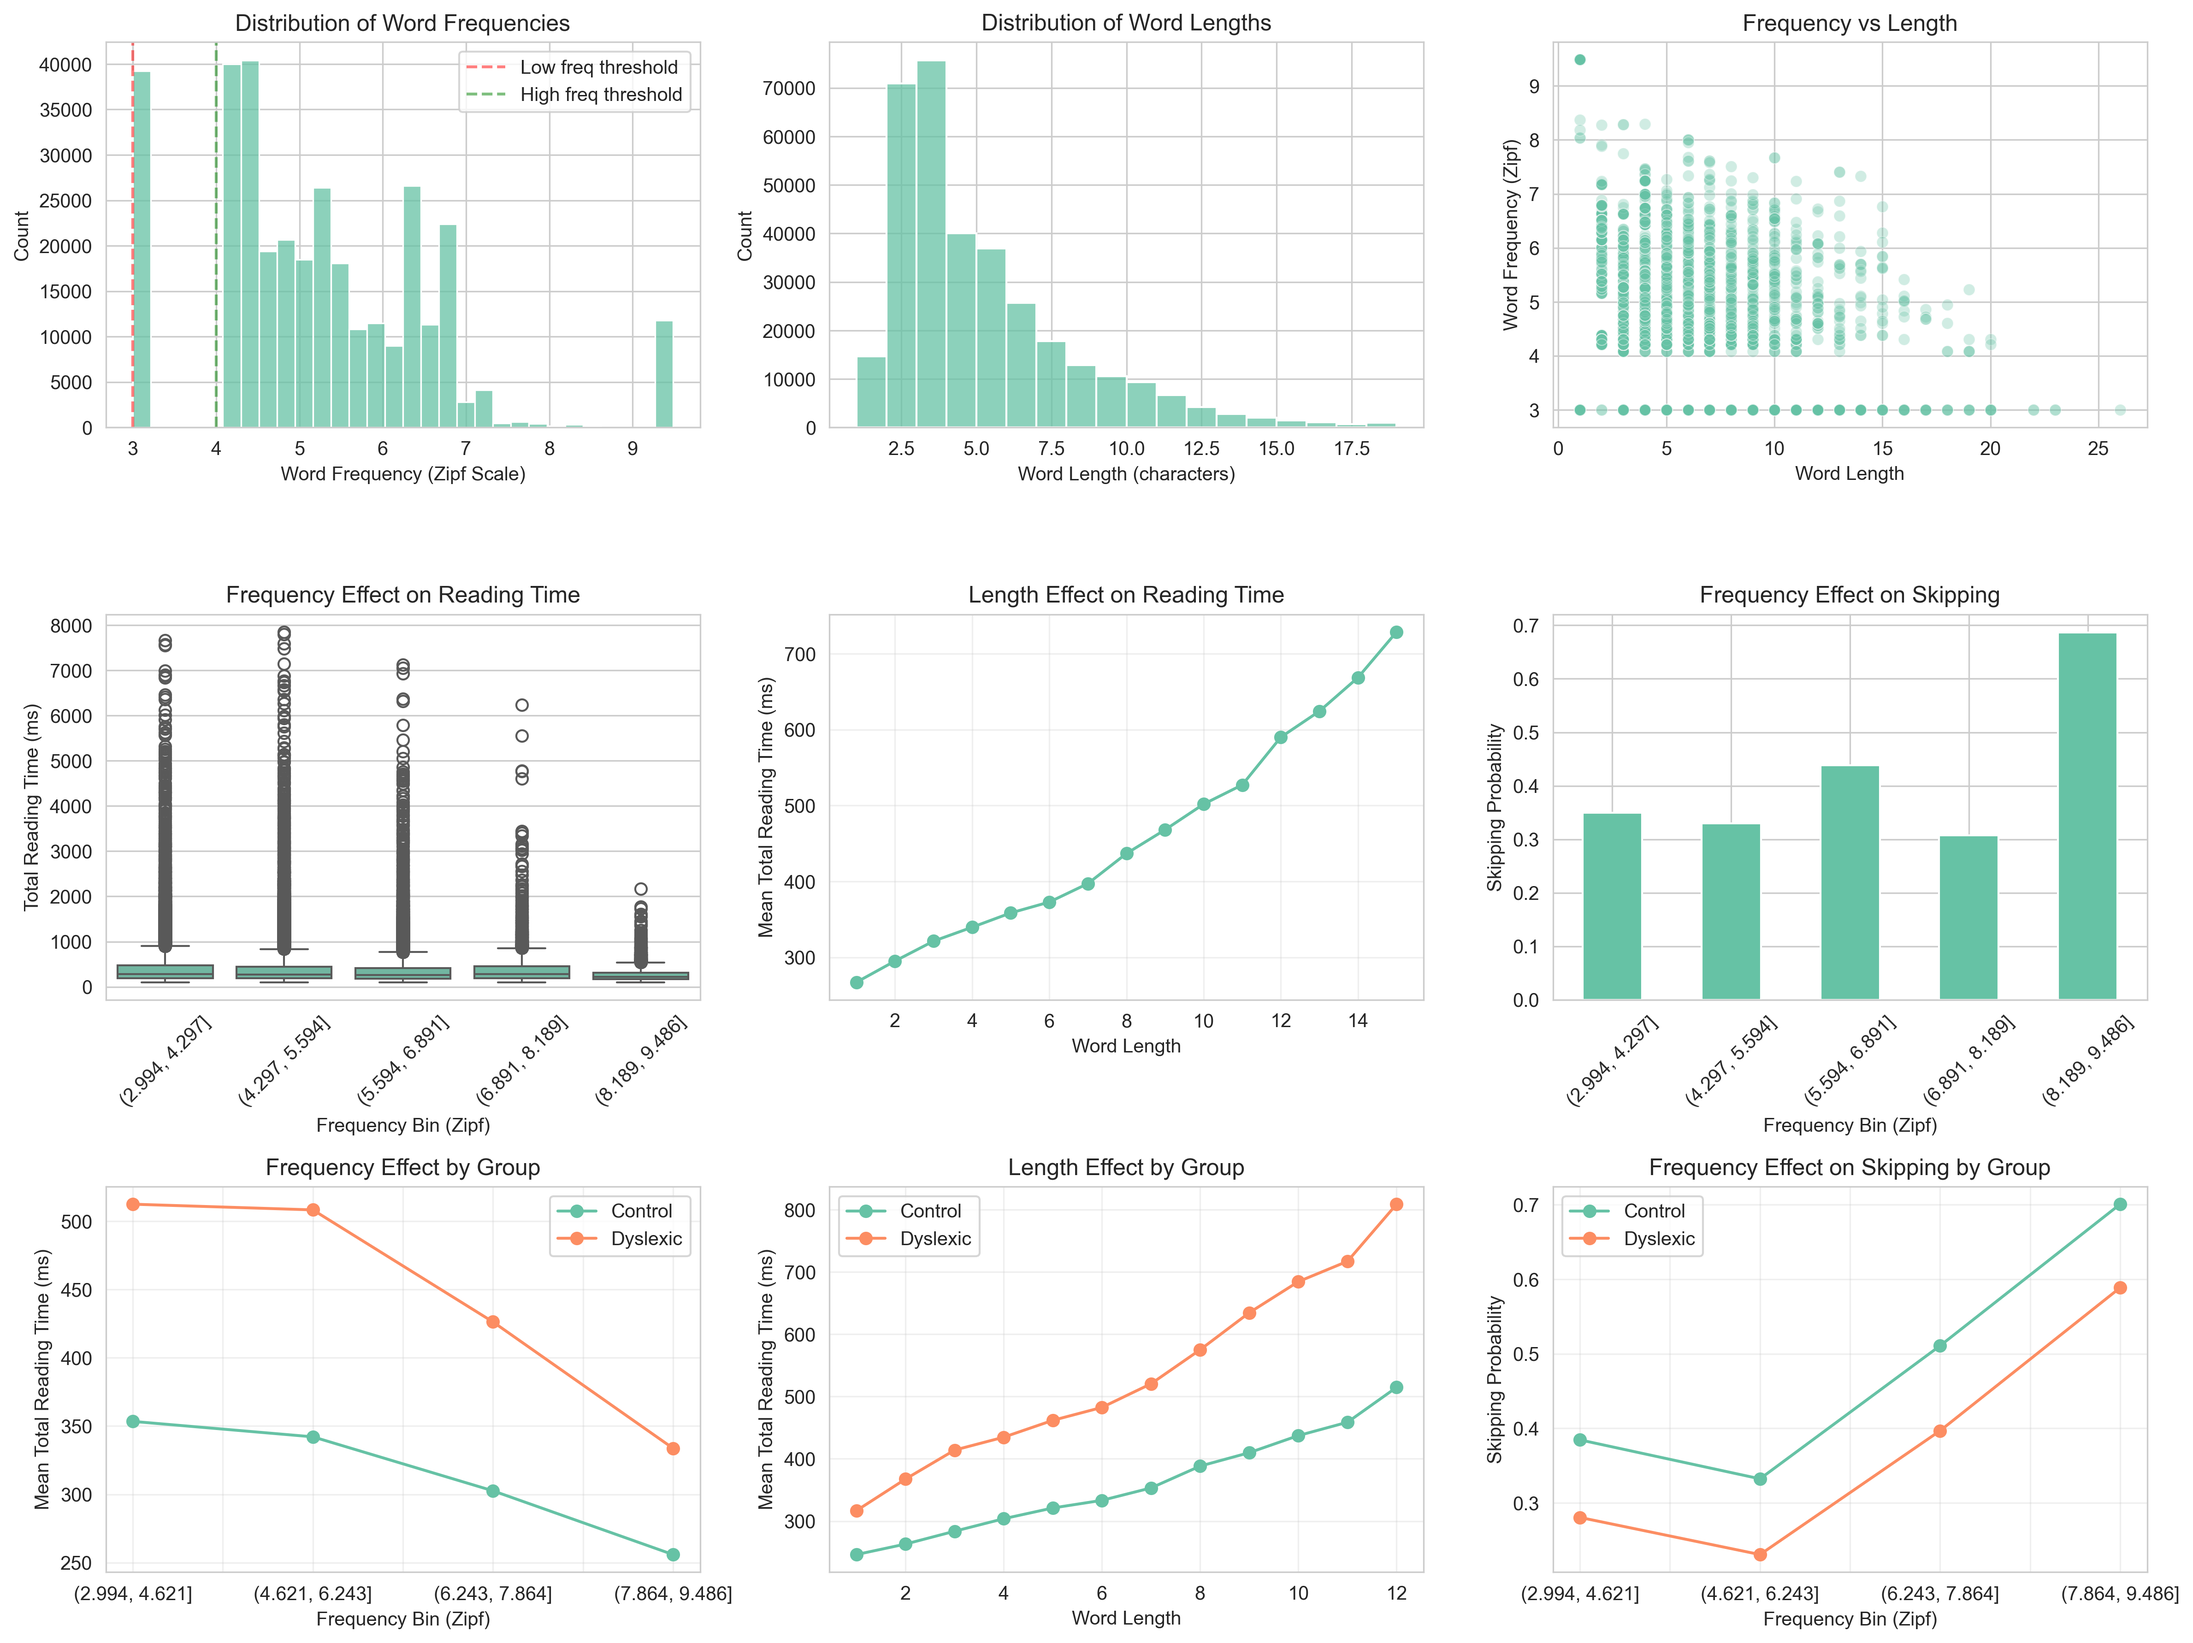
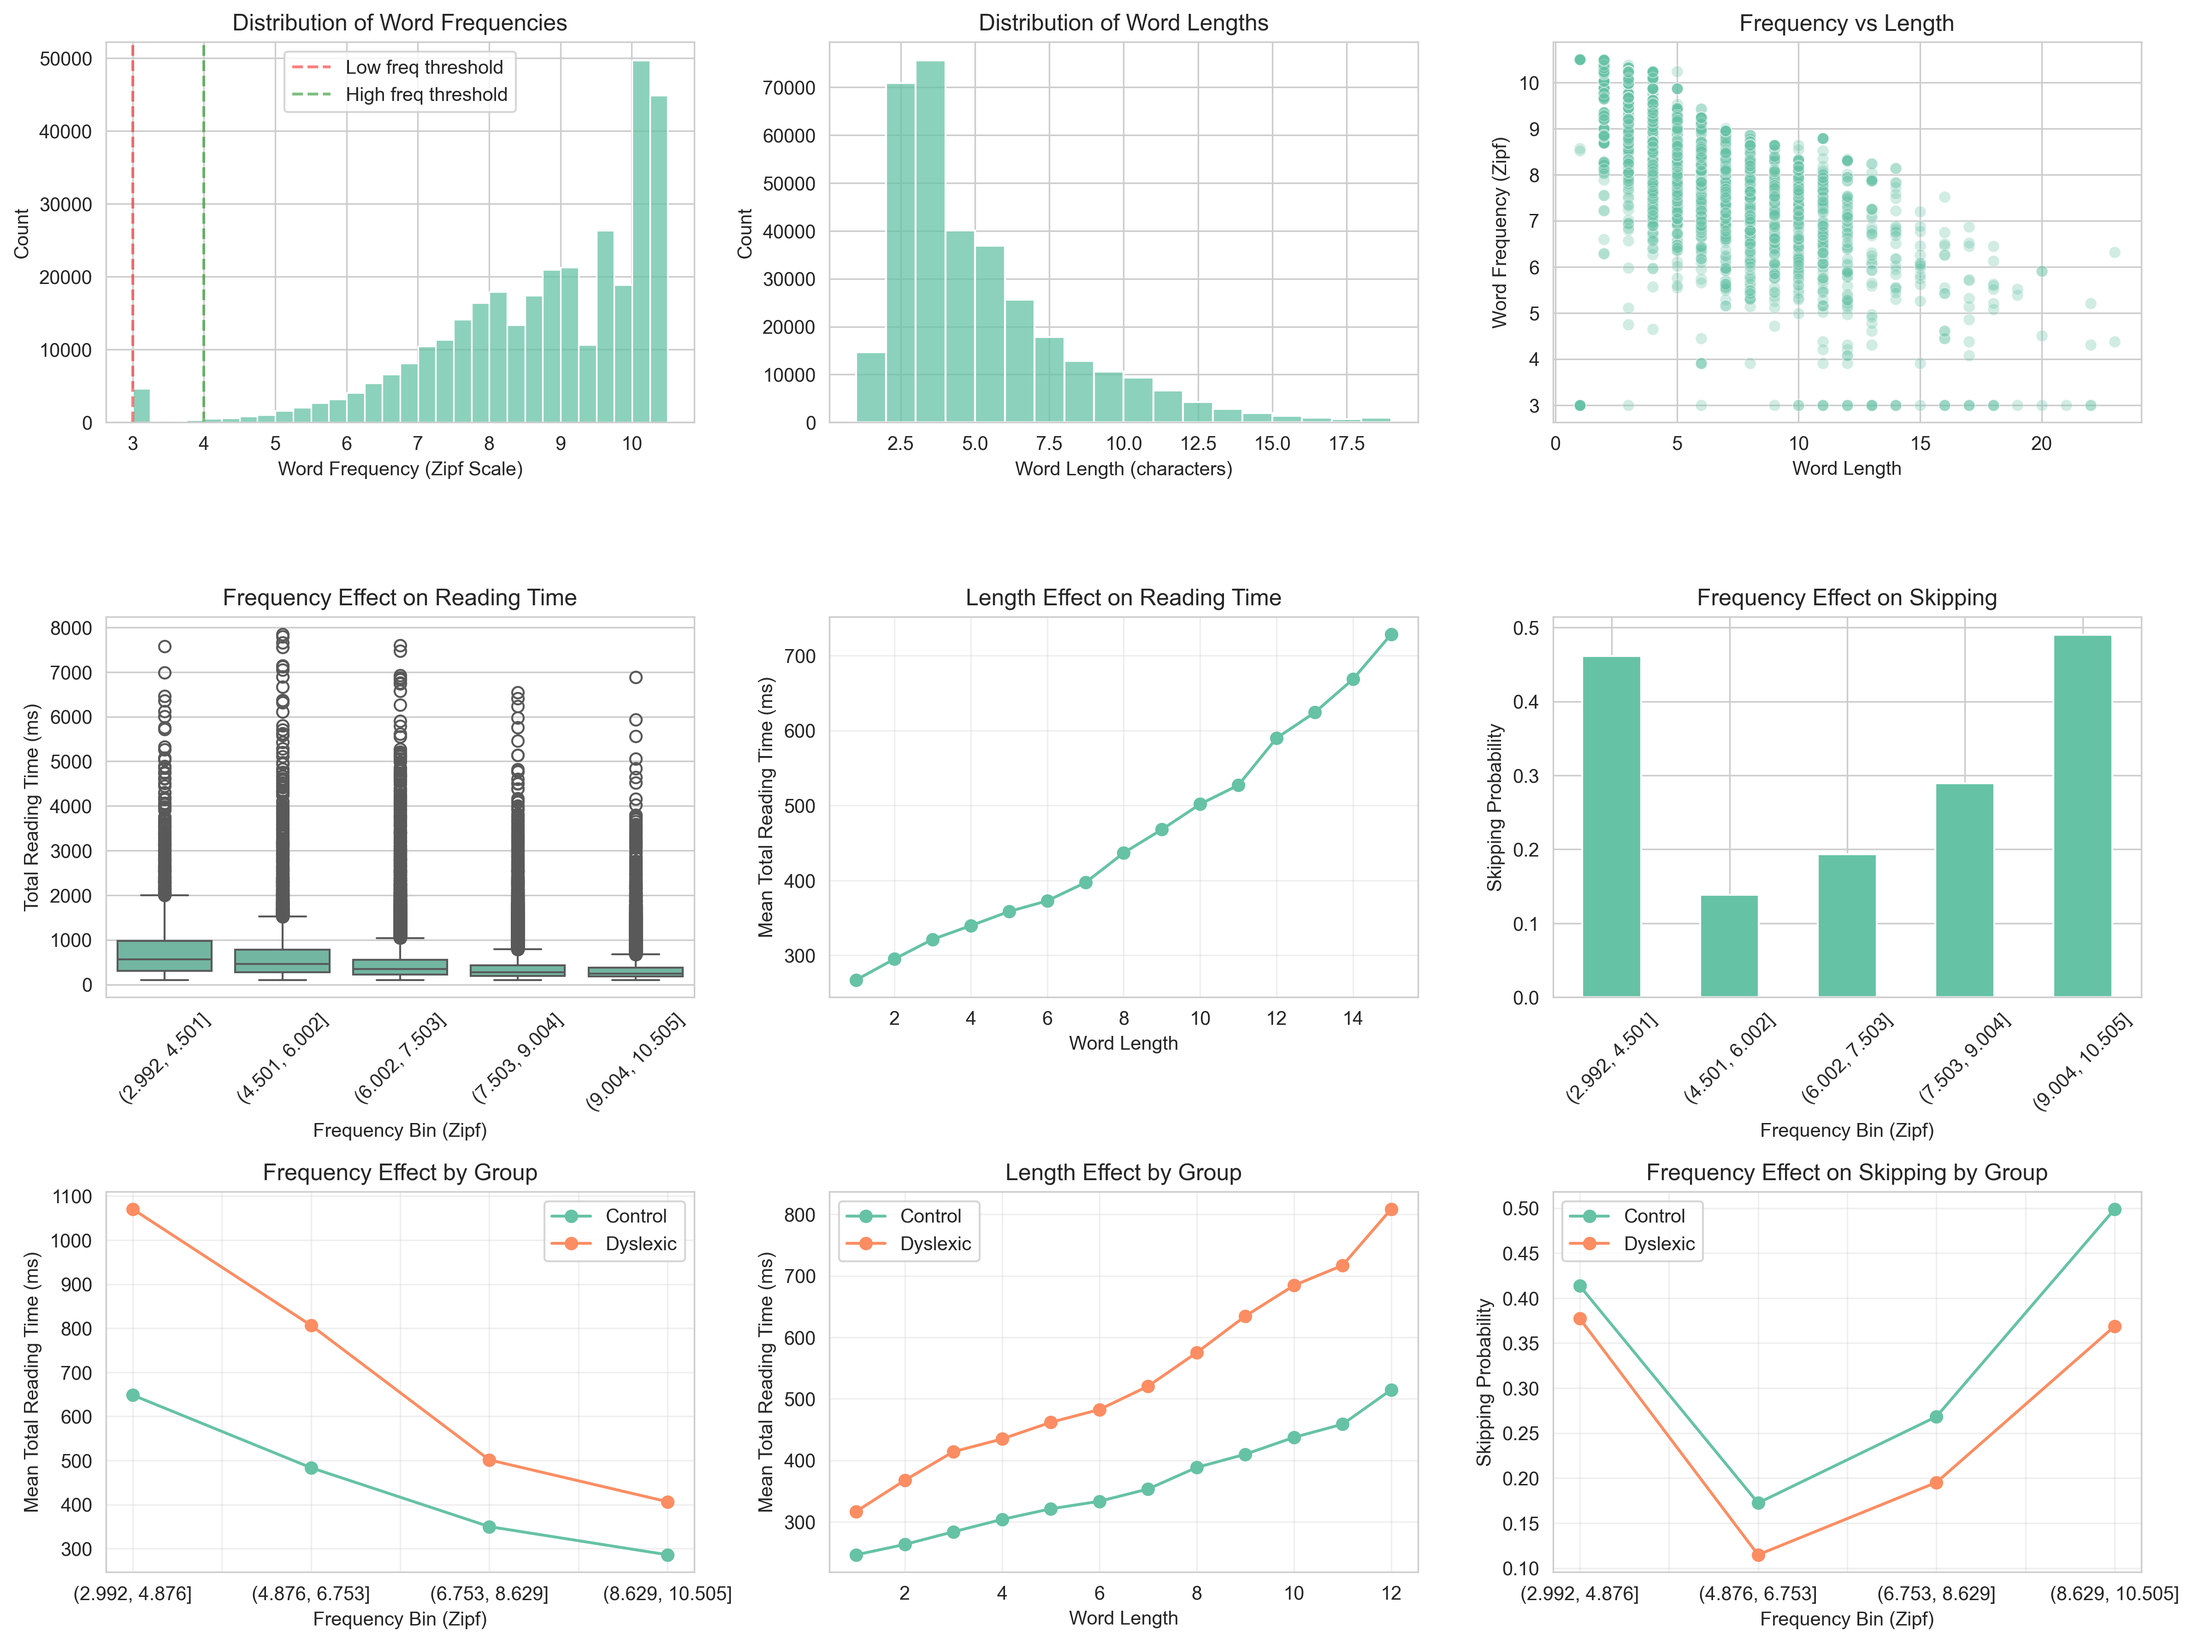
bug: standardized word frequency calculation

diff --git a/utils/linguistic_features.py b/utils/linguistic_features.py
@@ -3,9 +3,11 @@
 Linguistic Feature Computation for Danish Eye-Tracking Data
 Implements word frequency (Zipf scale) and surprisal computation
 Updated to use Leipzig Corpora frequency data
+Fixed to handle punctuation in eye-tracking data
 """
 
 import logging
+import string
 from pathlib import Path
 from typing import Dict
 
@@ -69,9 +71,21 @@ class DanishLinguisticFeatures:
             encoding="utf-8",
         )
 
+        # Check for duplicates after lowercasing
+        freq_df["word_lower"] = freq_df["word"].str.lower()
+        duplicate_count = len(freq_df) - freq_df["word_lower"].nunique()
+
+        if duplicate_count > 0:
+            logger.warning(
+                f"Found {duplicate_count:,} duplicate words after lowercasing. "
+                f"This suggests the frequency file was not properly standardized. "
+                f"Re-run download_leipzig_danish.py to fix this issue."
+            )
+
         if self.use_proportions:
             # File contains proportions (value between 0 and 1)
-            self.freq_dict = dict(zip(freq_df["word"].str.lower(), freq_df["value"]))
+            # Use word_lower for dictionary keys
+            self.freq_dict = dict(zip(freq_df["word_lower"], freq_df["value"]))
             # For proportions, we don't need total_corpus_tokens
             self.total_corpus_tokens = None
             logger.info(
@@ -79,21 +93,54 @@ class DanishLinguisticFeatures:
             )
         else:
             # File contains raw frequencies
-            self.freq_dict = dict(zip(freq_df["word"].str.lower(), freq_df["value"]))
+            self.freq_dict = dict(zip(freq_df["word_lower"], freq_df["value"]))
             self.total_corpus_tokens = freq_df["value"].sum()
             logger.info(
                 f"Loaded {len(self.freq_dict):,} word frequencies "
                 f"({self.total_corpus_tokens:,} total corpus tokens)"
             )
 
+    def _get_word_frequency(self, word: str) -> float:
+        """
+        Get frequency for a single word with robust handling
+        Strips punctuation and handles edge cases
+
+        Args:
+            word: Word to lookup (may include punctuation)
+
+        Returns:
+            Frequency value (proportion or count), or np.nan if not found
+        """
+        if pd.isna(word):
+            return np.nan
+
+        # Clean the word: lowercase and strip punctuation
+        word_clean = str(word).lower().strip(string.punctuation)
+
+        # Handle empty string after stripping (e.g., pure punctuation tokens)
+        if not word_clean:
+            return np.nan
+
+        # Look up in frequency dictionary
+        freq = self.freq_dict.get(word_clean, None)
+        return freq if freq is not None else np.nan
+
+    @property
+    def min_freq(self) -> float:
+        """Minimum frequency for unknown words"""
+        if self.use_proportions:
+            return 1e-9  # Very small proportion (1 in a billion)
+        else:
+            return 1  # Count of 1
+
     def compute_word_frequency(
         self, words: pd.Series, return_zipf: bool = True
     ) -> pd.Series:
         """
-        Compute word frequency from Danish frequency lists
+        Compute word frequency with robust handling of missing values and punctuation
 
         Args:
-            words: Series of word strings
+            words: Series of word strings (may include punctuation)
             return_zipf: If True, return Zipf-transformed frequencies (recommended)
                         If False, return raw frequencies or proportions
 
@@ -101,29 +148,39 @@ class DanishLinguisticFeatures:
             Series of frequency values (Zipf scale 1-7 or raw values)
         """
 
-        # Match words to frequency dictionary (case-insensitive)
-        frequencies = words.str.lower().map(self.freq_dict)
+        # Look up frequencies (returns np.nan for missing)
+        frequencies = words.apply(self._get_word_frequency)
 
-        # Handle missing frequencies
-        n_missing = frequencies.isna().sum()
+        # Identify truly missing words
+        missing_mask = frequencies.isna()
+        n_missing = missing_mask.sum()
+
         if n_missing > 0:
             pct_missing = (n_missing / len(words)) * 100
             logger.warning(
-                f"{n_missing:,} words ({pct_missing:.1f}%) not found in frequency list. "
-                f"Assigning minimum frequency."
+                f"{n_missing:,} words ({pct_missing:.1f}%) not found in frequency list"
             )
 
-            if self.use_proportions:
-                # For proportions, assign a very small value (1 occurrence per billion words)
-                min_proportion = 1e-9
-                frequencies = frequencies.fillna(min_proportion)
+            # Log sample of missing words
+            missing_words = words[missing_mask].unique()
+            if len(missing_words) <= 50:
+                logger.info(f"Missing words: {sorted(missing_words.tolist())}")
             else:
-                # For raw frequencies, assign frequency of 1
-                frequencies = frequencies.fillna(1)
+                sample = sorted(missing_words[:50].tolist())
+                logger.info(
+                    f"Sample of {len(missing_words)} missing words: {sample}... "
+                    f"({len(missing_words) - 50} more)"
+                )
+
+        # Fill missing values with minimum frequency for computation
+        frequencies = frequencies.fillna(self.min_freq)
 
         if return_zipf:
             # Transform to Zipf scale: log10(freq per billion) + 3
             # This gives interpretable scores from ~1 (rare) to ~7 (very frequent)
+
+            # Ensure no zeros before log
+            frequencies = frequencies.clip(lower=1e-10)
 
             if self.use_proportions:
                 # proportions are already normalized (freq / total_tokens)
@@ -132,9 +189,6 @@ class DanishLinguisticFeatures:
             else:
                 # For raw frequencies: log10((freq / total) * 1e9) + 3
                 zipf_freq = np.log10((frequencies / self.total_corpus_tokens) * 1e9) + 3
-
-            # Handle any -inf values (from log of 0)
-            zipf_freq = zipf_freq.replace([np.inf, -np.inf], np.nan)
 
             return zipf_freq
         else:
@@ -320,9 +374,17 @@ class DanishLinguisticFeatures:
         )
 
         # Log statistics about frequency coverage
-        valid_freq = data["word_frequency_zipf"].notna()
+        # Check how many were found (not assigned min_freq)
+        if self.use_proportions:
+            found_mask = data["word_frequency_raw"] > self.min_freq
+        else:
+            found_mask = data["word_frequency_raw"] > 1
+
+        found_count = found_mask.sum()
+        coverage_pct = (found_count / len(data)) * 100
+
         logger.info(
-            f"Frequency coverage: {valid_freq.sum():,} / {len(data):,} words ({valid_freq.mean()*100:.1f}%)"
+            f"Frequency coverage: {found_count:,} / {len(data):,} words ({coverage_pct:.1f}%)"
         )
 
         # 3. Surprisal (optional, computationally expensive)

diff --git a/download_leipzig_danish.py b/download_leipzig_danish.py
@@ -42,7 +42,7 @@ OUTPUT_DIR = Path("danish_frequencies")
 OUTPUT_DIR.mkdir(exist_ok=True)
 
 # Processing parameters
-TOP_N_WORDS = 1000000  # Keep top 1M words
+TOP_N_WORDS = 1500000  # Keep top 1.5M words
 MIN_FREQUENCY = 2  # Minimum frequency threshold
 REMOVE_PUNCT_ONLY = True  # Remove entries that are only punctuation
 ADD_LOG_TRANSFORM = True  # Add log-transformed frequency columns
@@ -138,6 +138,17 @@ def process_frequency_data(df):
     print("\nProcessing frequency data...")
 
     original_count = len(df)
+
+    # STANDARDIZE: Convert all words to lowercase and merge duplicates
+    print("  Standardizing words to lowercase...")
+    before_standardize = len(df)
+    df["word"] = df["word"].str.lower()
+    df = df.groupby("word", as_index=False)["freq"].sum()
+    df = df.sort_values("freq", ascending=False).reset_index(drop=True)
+    after_standardize = len(df)
+    duplicates_merged = before_standardize - after_standardize
+    print(f"  ✓ Standardized and merged {duplicates_merged:,} case-variant duplicates")
+    print(f"    {before_standardize:,} → {after_standardize:,} unique lowercase words")
 
     # Filter by minimum frequency
     if MIN_FREQUENCY > 1:
@@ -254,15 +265,15 @@ def main():
         print("No valid word files loaded. Exiting.")
         return
 
-    # Combine and aggregate
-    print("\nCombining frequencies...")
+    # Combine and aggregate (before standardization)
+    print("\nCombining frequencies from all corpora...")
     freq = pd.concat(dfs).groupby("word", as_index=False)["freq"].sum()
     freq = freq.sort_values("freq", ascending=False).reset_index(drop=True)
 
-    print(f"✓ Combined: {len(freq):,} unique words")
+    print(f"✓ Combined: {len(freq):,} unique words (mixed case)")
     print(f"  Total frequency: {freq['freq'].sum():,}")
 
-    # Process the data
+    # Process the data (includes lowercase standardization and merging)
     freq = process_frequency_data(freq)
 
     # Reorder columns
@@ -309,12 +320,11 @@ def main():
     print("SUCCESS!")
     print("=" * 70)
     print(f"\nTo use with linguistic_features.py:")
-    print(f"1. Copy {output_simple.name} to utils/lemma/")
-    print(f"2. Update initialization:")
+    print(f"1. The file {output_simple.name} is already standardized (all lowercase)")
+    print(f"2. Use in your code:")
     print(f"   DanishLinguisticFeatures(")
-    print(f"       lemma_file='utils/lemma/{output_simple.name}',")
-    print(f"       combine_files=False,")
-    print(f"       use_lemmatization=False")
+    print(f"       lemma_file='danish_frequencies/{output_simple.name}',")
+    print(f"       use_proportions=True")
     print(f"   )")
     print("=" * 70)
 
